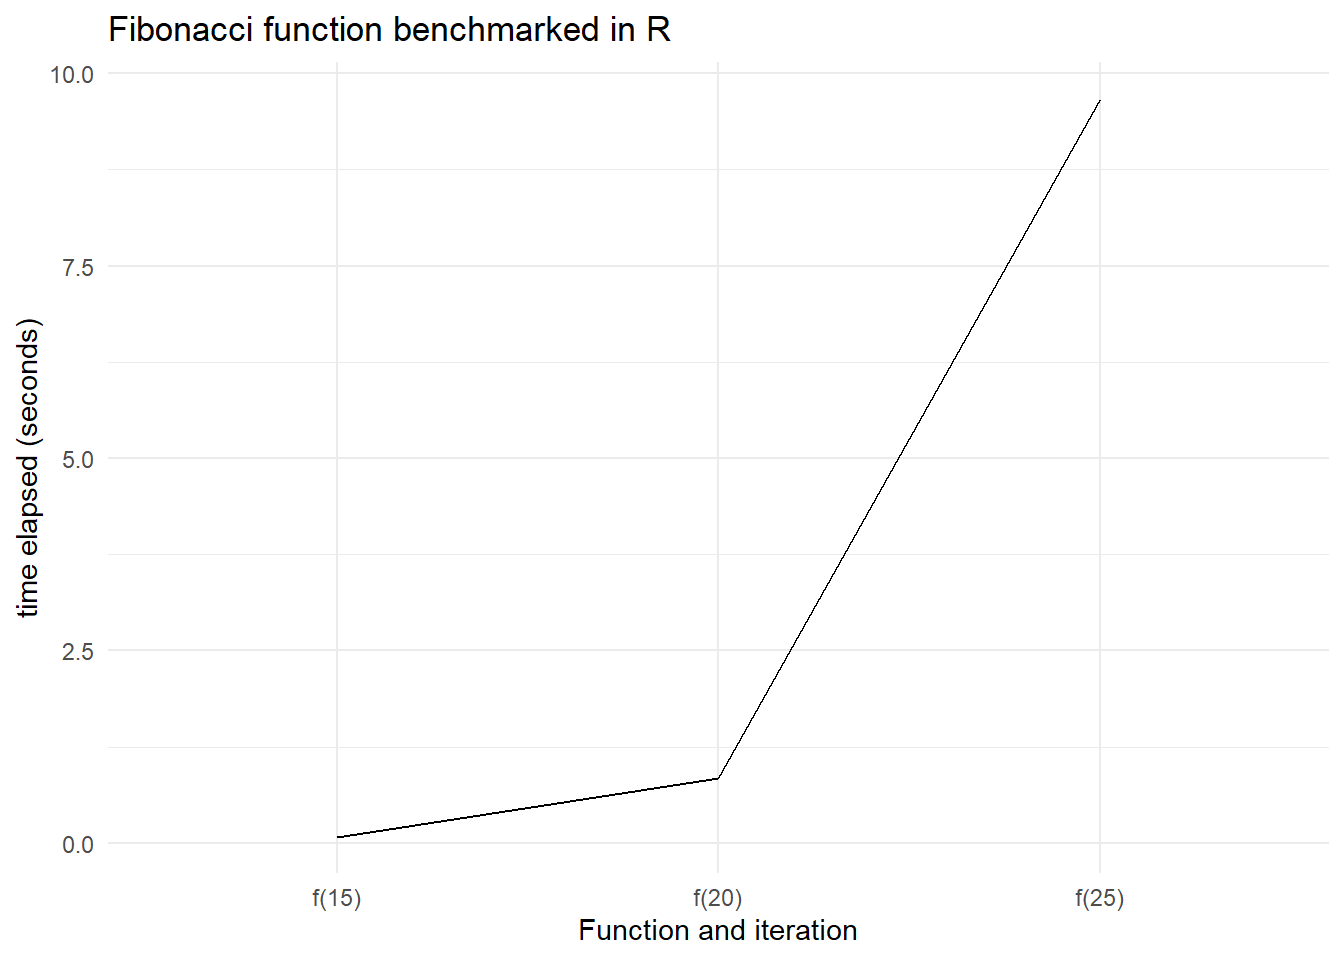
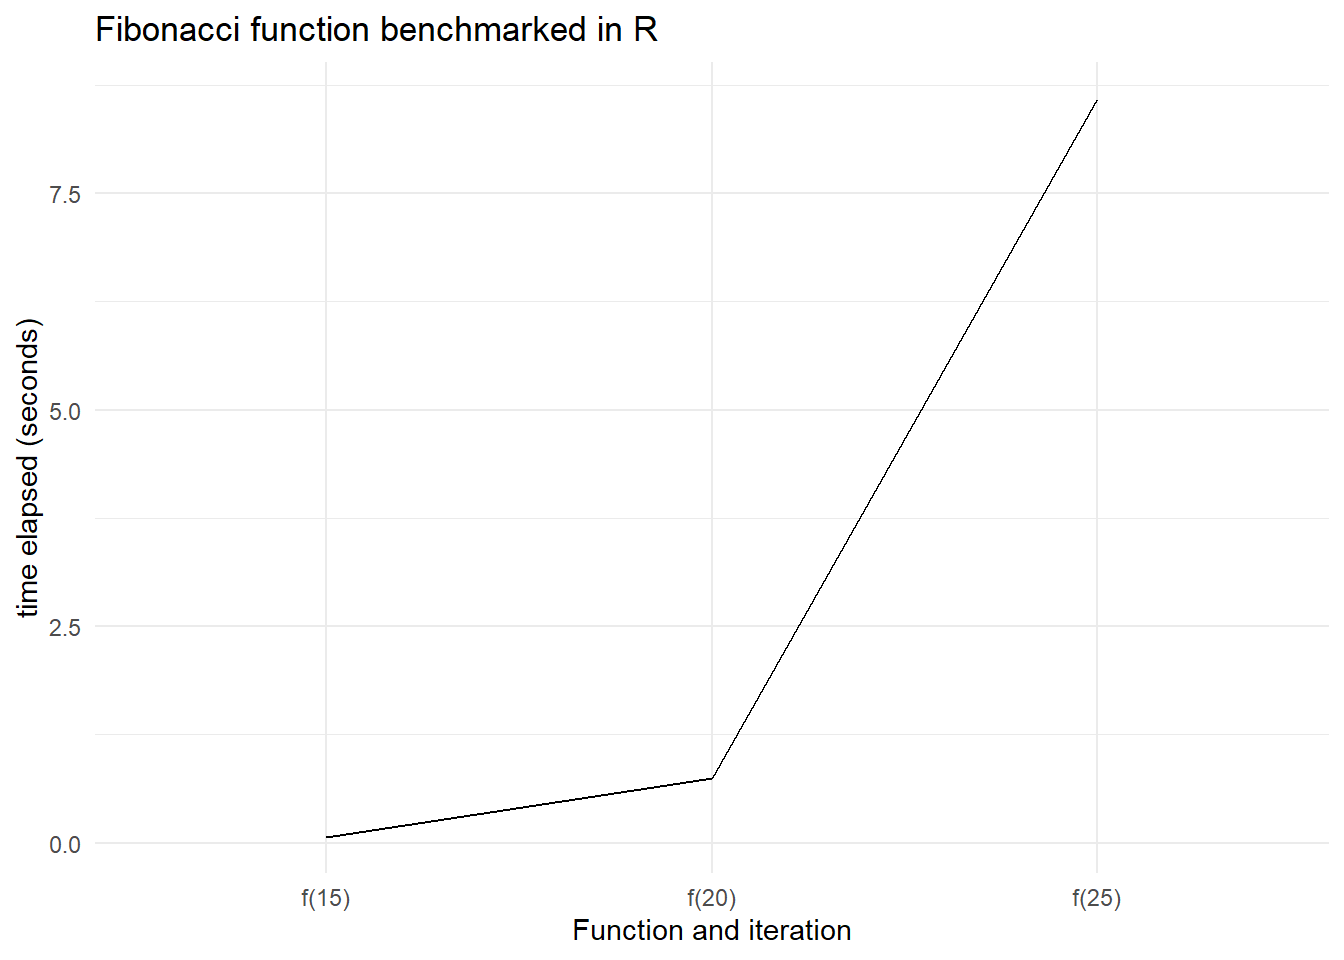
automated commit

diff --git a/public/2021/03/23/rcpp-integration/index.html b/public/2021/03/23/rcpp-integration/index.html
@@ -62,7 +62,7 @@
 
   <article class="article">
     
-    <span class="article-duration">1 min read</span>
+    <span class="article-duration">2 min read</span>
     
 
     <h1 class="article-title">Rcpp integration</h1>
@@ -101,17 +101,49 @@ F_{n-1} + F_{n-2}, &amp; n&gt;2
   return(f(n - 1)+f(n - 2))
 }
 
-
-(scores &lt;- benchmark(f(15), f(20), f(25))[,1:4])</code></pre>
+sapply(1:10, f)</code></pre>
+<pre><code>##  [1]  1  1  2  3  5  8 13 21 34 55</code></pre>
+<pre class="r"><code>(Rscores &lt;- benchmark(f(10),f(15), f(20), f(25))[,1:4])</code></pre>
 <pre><code>##    test replications elapsed relative
-## 1 f(15)          100    0.07    1.000
-## 2 f(20)          100    0.83   11.857
-## 3 f(25)          100    8.76  125.143</code></pre>
-<pre class="r"><code>scores %&gt;% 
-  ggplot(aes(test,relative, group = 1))+
+## 1 f(10)          100    0.00       NA
+## 2 f(15)          100    0.07       NA
+## 3 f(20)          100    0.75       NA
+## 4 f(25)          100    8.59       NA</code></pre>
+<pre class="r"><code>Rscores %&gt;% 
+  filter(elapsed&gt;0) %&gt;% 
+  ggplot(aes(test,elapsed, group = 1))+
   geom_line()+theme_minimal()+
-  labs(title = &quot;&quot;)</code></pre>
+  labs(title = &quot;Fibonacci function benchmarked in R&quot;,
+       y = &quot;time elapsed (seconds)&quot;,
+       x = &quot;Function and iteration&quot;)</code></pre>
 <p><img src="/2021/03/23/rcpp-integration/index_files/figure-html/unnamed-chunk-3-1.png" width="672" /></p>
+</div>
+<div id="c-implementation" class="section level3">
+<h3>C++ implementation</h3>
+<p>The function defined above within C++ is now callable from R through the Rcpp package.</p>
+<pre class="r"><code>#Rcpp::sourceCpp(&quot;g.cpp&quot;)</code></pre>
+<pre class="cpp"><code>#include &lt;Rcpp.h&gt;
+//[[Rcpp::export]]
+int g(int n) {
+  if (n &lt; 2) return(n);
+  return(g(n-1) + g(n-2));
+}</code></pre>
+<pre class="r"><code>sapply(0:10, g)</code></pre>
+<pre><code>##  [1]  0  1  1  2  3  5  8 13 21 34 55</code></pre>
+<pre class="r"><code>(Cscores &lt;- benchmark(g(10),g(15), g(20), g(25),g(30))[,1:4])</code></pre>
+<pre><code>##    test replications elapsed relative
+## 1 g(10)          100    0.00       NA
+## 2 g(15)          100    0.00       NA
+## 3 g(20)          100    0.02       NA
+## 4 g(25)          100    0.02       NA
+## 5 g(30)          100    0.21       NA</code></pre>
+<pre class="r"><code>Cscores %&gt;% 
+  ggplot(aes(test,elapsed, group = 1))+
+  geom_line()+ theme_minimal()+
+  labs(title = &quot;Fibonacci function benchmarked in C++&quot;,
+       y = &quot;time elapsed (seconds)&quot;,
+       x = &quot;Function and iteration&quot;)</code></pre>
+<p><img src="/2021/03/23/rcpp-integration/index_files/figure-html/unnamed-chunk-7-1.png" width="672" /></p>
 </div>
 </div>
 

diff --git a/content/post/2021-03-23-rcpp-integration/index.html b/content/post/2021-03-23-rcpp-integration/index.html
@@ -35,16 +35,48 @@ F_{n-1} + F_{n-2}, &amp; n&gt;2
   return(f(n - 1)+f(n - 2))
 }
 
-
-(scores &lt;- benchmark(f(15), f(20), f(25))[,1:4])</code></pre>
+sapply(1:10, f)</code></pre>
+<pre><code>##  [1]  1  1  2  3  5  8 13 21 34 55</code></pre>
+<pre class="r"><code>(Rscores &lt;- benchmark(f(10),f(15), f(20), f(25))[,1:4])</code></pre>
 <pre><code>##    test replications elapsed relative
-## 1 f(15)          100    0.07    1.000
-## 2 f(20)          100    0.83   11.857
-## 3 f(25)          100    8.76  125.143</code></pre>
-<pre class="r"><code>scores %&gt;% 
-  ggplot(aes(test,relative, group = 1))+
+## 1 f(10)          100    0.00       NA
+## 2 f(15)          100    0.07       NA
+## 3 f(20)          100    0.75       NA
+## 4 f(25)          100    8.59       NA</code></pre>
+<pre class="r"><code>Rscores %&gt;% 
+  filter(elapsed&gt;0) %&gt;% 
+  ggplot(aes(test,elapsed, group = 1))+
   geom_line()+theme_minimal()+
-  labs(title = &quot;&quot;)</code></pre>
+  labs(title = &quot;Fibonacci function benchmarked in R&quot;,
+       y = &quot;time elapsed (seconds)&quot;,
+       x = &quot;Function and iteration&quot;)</code></pre>
 <p><img src="{{< blogdown/postref >}}index_files/figure-html/unnamed-chunk-3-1.png" width="672" /></p>
+</div>
+<div id="c-implementation" class="section level3">
+<h3>C++ implementation</h3>
+<p>The function defined above within C++ is now callable from R through the Rcpp package.</p>
+<pre class="r"><code>#Rcpp::sourceCpp(&quot;g.cpp&quot;)</code></pre>
+<pre class="cpp"><code>#include &lt;Rcpp.h&gt;
+//[[Rcpp::export]]
+int g(int n) {
+  if (n &lt; 2) return(n);
+  return(g(n-1) + g(n-2));
+}</code></pre>
+<pre class="r"><code>sapply(0:10, g)</code></pre>
+<pre><code>##  [1]  0  1  1  2  3  5  8 13 21 34 55</code></pre>
+<pre class="r"><code>(Cscores &lt;- benchmark(g(10),g(15), g(20), g(25),g(30))[,1:4])</code></pre>
+<pre><code>##    test replications elapsed relative
+## 1 g(10)          100    0.00       NA
+## 2 g(15)          100    0.00       NA
+## 3 g(20)          100    0.02       NA
+## 4 g(25)          100    0.02       NA
+## 5 g(30)          100    0.21       NA</code></pre>
+<pre class="r"><code>Cscores %&gt;% 
+  ggplot(aes(test,elapsed, group = 1))+
+  geom_line()+ theme_minimal()+
+  labs(title = &quot;Fibonacci function benchmarked in C++&quot;,
+       y = &quot;time elapsed (seconds)&quot;,
+       x = &quot;Function and iteration&quot;)</code></pre>
+<p><img src="{{< blogdown/postref >}}index_files/figure-html/unnamed-chunk-7-1.png" width="672" /></p>
 </div>
 </div>
